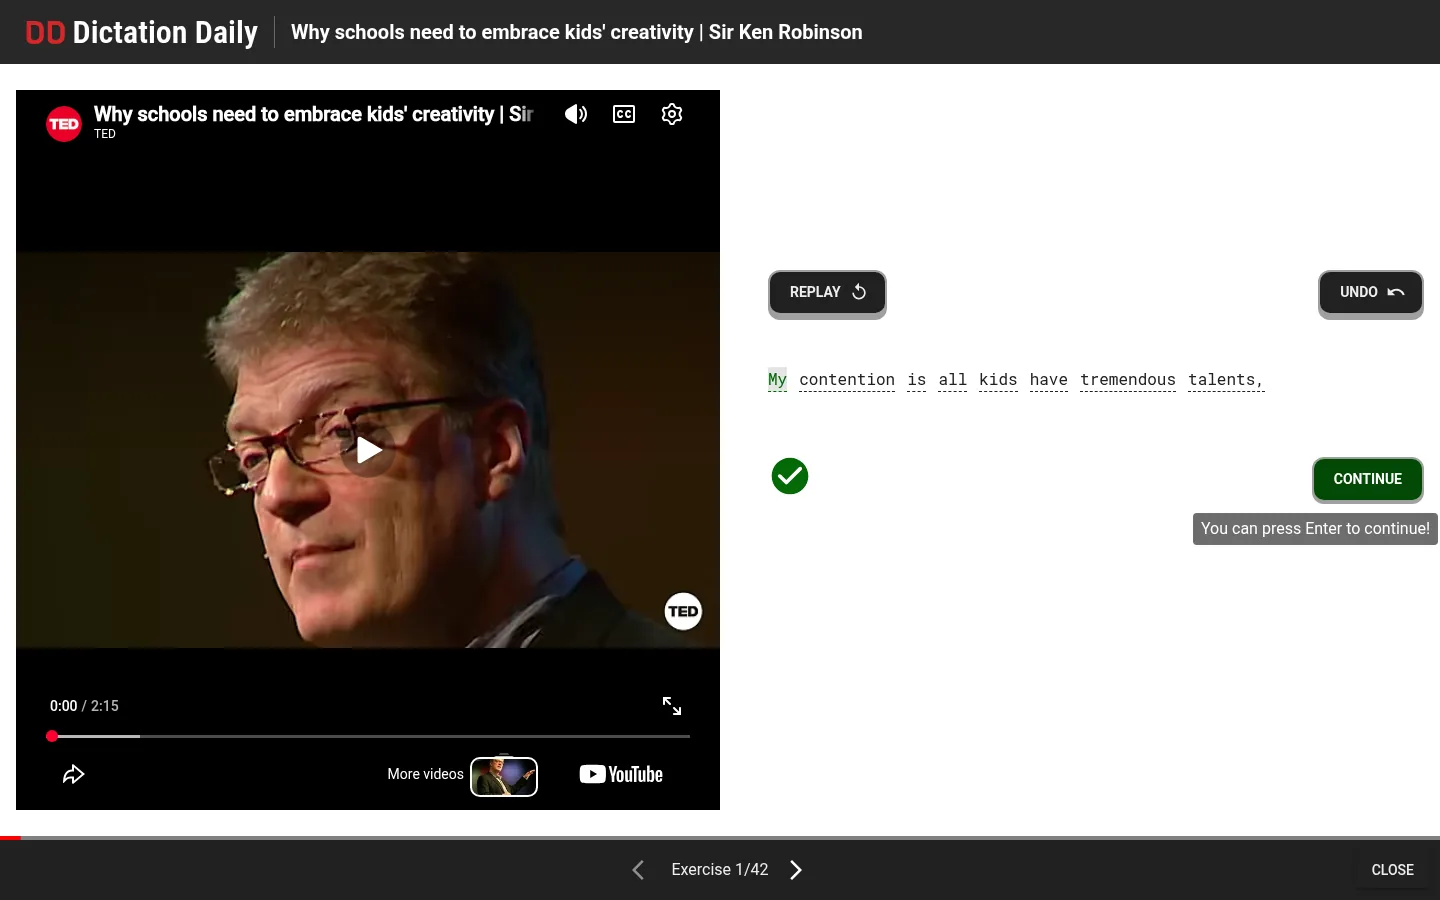
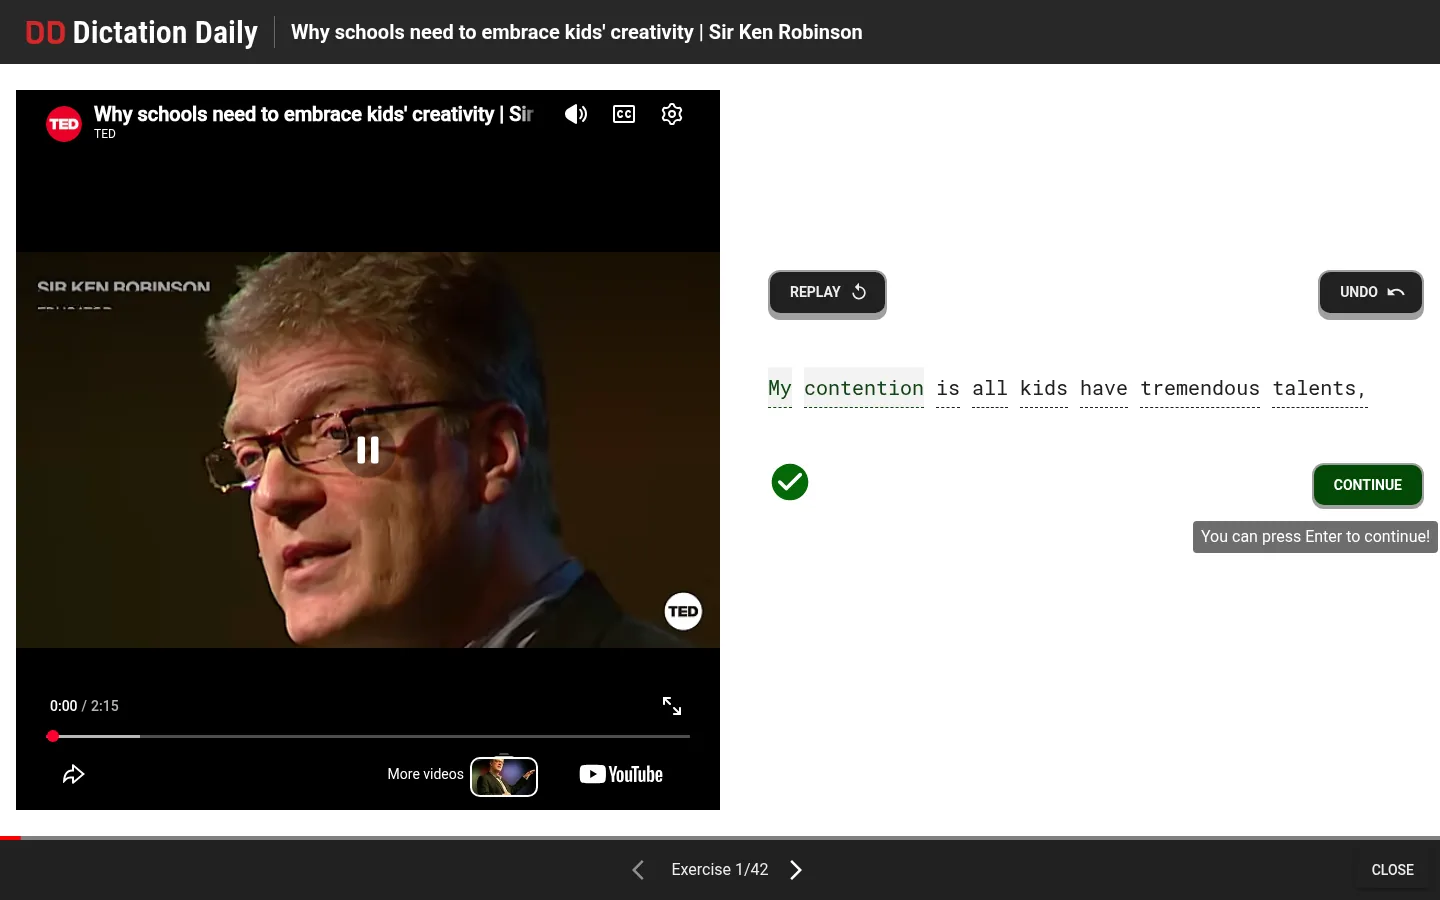
Explain that a right answer is accepted by itself and the video plays on

diff --git a/src/pages/faq.html b/src/pages/faq.html
@@ -40,6 +40,7 @@
     <details class="faq" data-faq id="right-but-wrong"><summary>My answer is right, but the app says it's wrong.</summary><div class="answer"><p>Look at the <strong class="text-green-700">green word</strong> in the hint. That's what the video says. Often it's:</p><ul><li>a small word like “a” or “the”</li><li>a word ending like -s or -ed</li><li>a word your phone autocorrected</li></ul><p>Type it the way the hint shows.</p></div></details>
     <details class="faq" data-faq id="capitals"><summary>Do capital letters, numbers or spelling matter?</summary><div class="answer"><p>These are all OK:</p><ul><li>capital letters, commas, full stops, apostrophes</li><li>numbers as digits or words: 19 = nineteen</li><li>money: $5 = five dollars</li><li>British or American spelling: colour = color</li></ul></div></details>
     <details class="faq" data-faq id="almost"><summary>What does “Almost! Check the spelling” mean?</summary><div class="answer"><p>You heard the word, but one or two letters are wrong. Fix the spelling and press <kbd class="kbd">Enter</kbd>.</p></div></details>
+    <details class="faq" data-faq id="no-enter"><summary>Do I need to press Enter when I'm right?</summary><div class="answer"><p>No. When you type the last right word, the ✓ comes by itself. Press <kbd class="kbd">Enter</kbd> only to check a sentence you're not sure about.</p></div></details>
     <details class="faq" data-faq id="one-mistake"><summary>Why does it show only one mistake?</summary><div class="answer"><p>So you listen again for each word. Fix it, press <kbd class="kbd">Enter</kbd>, and see the next one.</p></div></details>
     <details class="faq" data-faq id="see-answer"><summary>Can I see the answer?</summary><div class="answer"><p>Not all at once. But each <kbd class="kbd">Enter</kbd> shows you the next word. You can also skip.</p></div></details>
     <details class="faq" data-faq id="transcript-wrong"><summary>I think the answer is wrong.</summary><div class="answer"><p>It can happen. The sentences are written by a computer. Type what the hint says, or skip.</p></div></details>

diff --git a/src/pages/phone.html b/src/pages/phone.html
@@ -5,7 +5,7 @@
         <li class="flex gap-4"><span class="flex h-10 w-10 shrink-0 items-center justify-center rounded-full bg-brand text-lg font-bold text-white">1</span><div><p class="text-lg font-bold text-ink dark:text-white">Tap START</p><p class="text-gray-600 dark:text-gray-400">The sentence plays.</p></div></li>
         <li class="flex gap-4"><span class="flex h-10 w-10 shrink-0 items-center justify-center rounded-full bg-brand text-lg font-bold text-white">2</span><div><p class="text-lg font-bold text-ink dark:text-white">Tap the box</p><p class="text-gray-600 dark:text-gray-400">Type the missing words.</p></div></li>
         <li class="flex gap-4"><span class="flex h-10 w-10 shrink-0 items-center justify-center rounded-full bg-brand text-lg font-bold text-white">3</span><div><p class="text-lg font-bold text-ink dark:text-white">Type, then tap CHECK</p><p class="text-gray-600 dark:text-gray-400">Fix the red word and tap CHECK again.</p></div></li>
-        <li class="flex gap-4"><span class="flex h-10 w-10 shrink-0 items-center justify-center rounded-full bg-green-700 text-lg font-bold text-white">✓</span><div><p class="text-lg font-bold text-ink dark:text-white">✓ Right! Tap CONTINUE</p><p class="text-gray-600 dark:text-gray-400">Next sentence!</p></div></li>
+        <li class="flex gap-4"><span class="flex h-10 w-10 shrink-0 items-center justify-center rounded-full bg-green-700 text-lg font-bold text-white">✓</span><div><p class="text-lg font-bold text-ink dark:text-white">✓ Right! Tap CONTINUE</p><p class="text-gray-600 dark:text-gray-400">The ✓ comes by itself when all the words are right.</p></div></li>
     </ol>
 </div>
 

diff --git a/src/pages/quick-start.html b/src/pages/quick-start.html
@@ -8,7 +8,7 @@
     <step img="lesson-clip-playing" x="65" y="43.6" title="Listen">The first and last words are already there. The red line fills while the missing words play.</step>
     <step img="lesson-typing" x="63.5" y="43.6" title="Type the missing words">Only the words in the gap. Capital letters and commas don't matter.</step>
     <step img="lesson-hint" at="del" title="Press Enter to check">A wrong word is <strong class="text-red-600">red</strong>. The right word is <strong class="text-green-700">green</strong>. Type over it and press <kbd class="kbd">Enter</kbd> again.</step>
-    <step img="lesson-correct" at="tick" title="✓ Right!">Press <kbd class="kbd">Enter</kbd> for the next sentence.</step>
+    <step img="lesson-correct" at="tick" title="✓ Right!">When all the words are right, the ✓ comes by itself. Press <kbd class="kbd">Enter</kbd> for the next sentence.</step>
 </tour>
 
 <div class="callout callout-tip"><span class="callout-icon">💾</span><div><strong>Want the app to remember your place?</strong> <a href="save-progress.html">Sign in with Google</a>. It's free.</div></div>

diff --git a/src/pages/move-around.html b/src/pages/move-around.html
@@ -15,4 +15,4 @@
 <shot src="lesson-listen" caption="Nothing to type here. Just listen.">
 
 <h2>The end of the lesson</h2>
-<shot src="lesson-finished" caption="Well done! Choose a new video, or do the lesson again.">
+<shot src="lesson-finished" caption="Well done! The video plays on. Choose a new video, or do the lesson again.">
